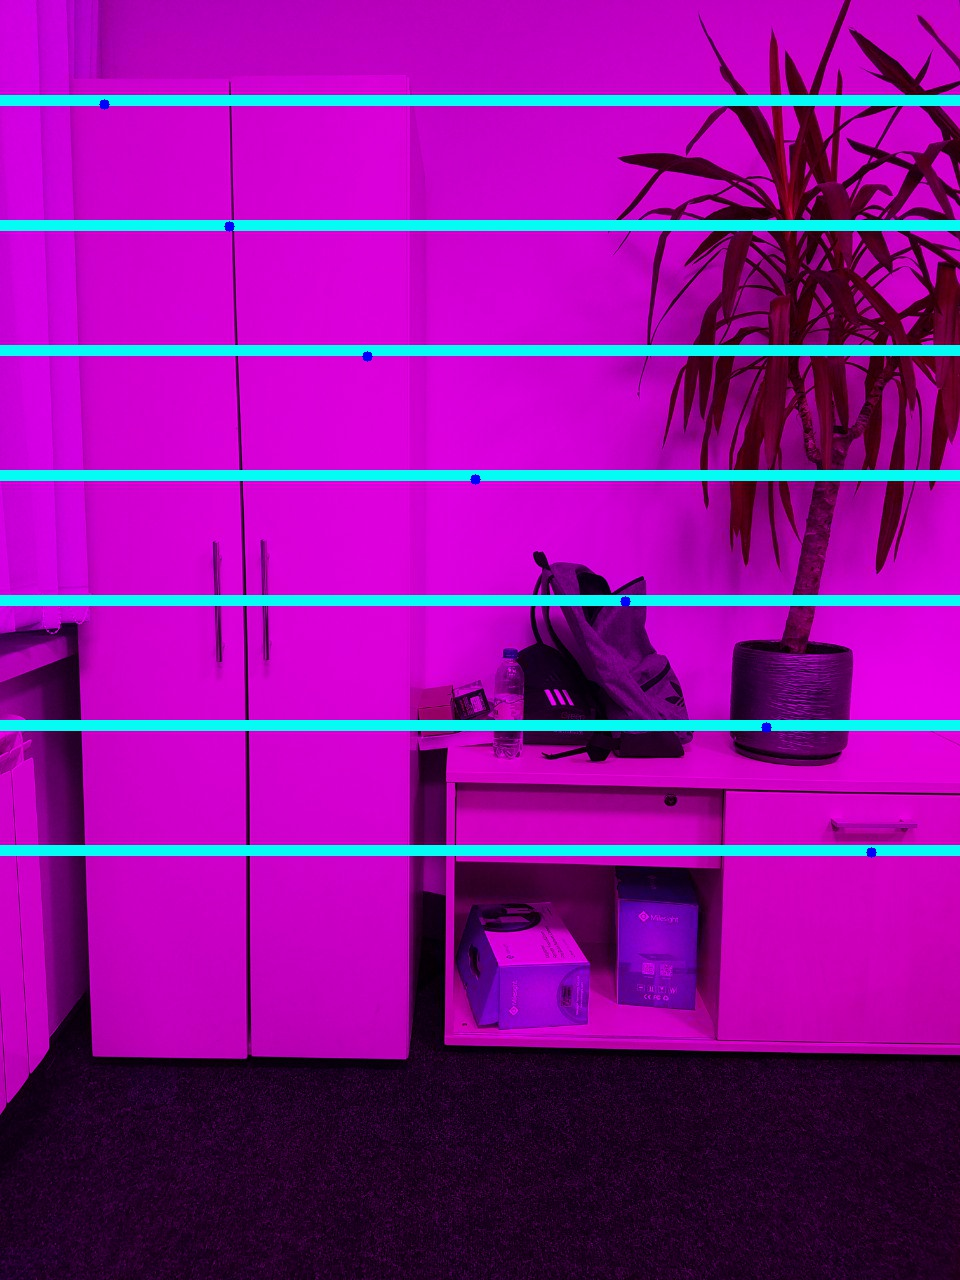
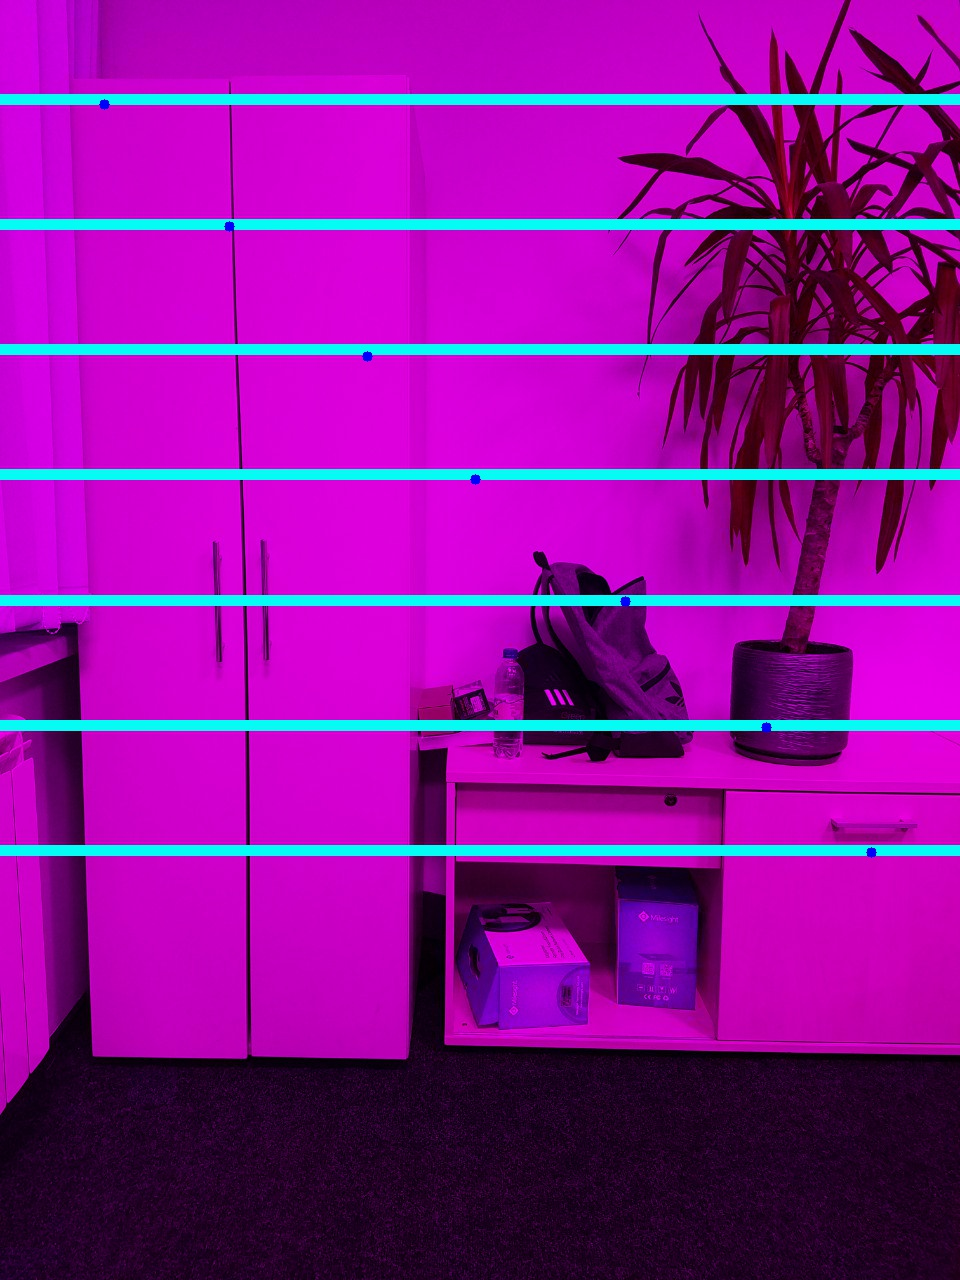
points log removed

diff --git a/lab2/src/main/java/lab2/ImageUtils.java b/lab2/src/main/java/lab2/ImageUtils.java
@@ -93,9 +93,7 @@ public class ImageUtils {
         double x2 = 3000;
         double y2 = (-line.get(2) - line.get(0) * x2) / line.get(1);
 
-        System.out.println("x1 " + x1 + " " + y1);
-        System.out.println("x2 " + x2 + " " + y2);
-        Point p1 = new Point(x1, y2);
+        Point p1 = new Point(x1, y1);
         Point p2 = new Point(x2, y2);
 
         Point p3 = new Point(xs, ys);
